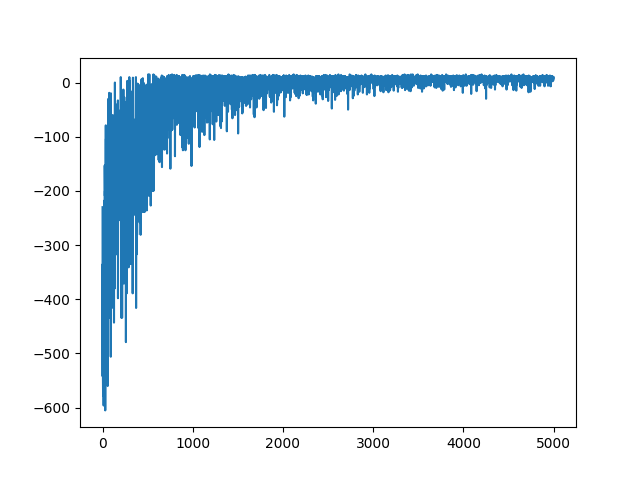
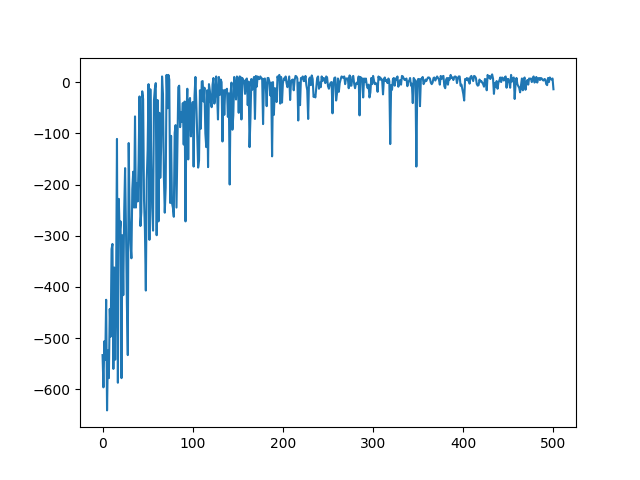
added missing files

diff --git a/train.py b/train.py
@@ -2,13 +2,14 @@ import numpy as np
 import gym
 from matplotlib import pyplot as plt
 
-EPSILON = 0.5
-EPSILON_MIN = 0.01
+EPSILON = 0.1
+EPSILON_MIN = 0.1
 EPSILON_MAX = 1
 DECAY = 0.05
-EPISODES = 5000
-ALPHA = 0.1
-GAMMA = 0.6
+
+EPISODES = 501
+ALPHA = 1.0
+GAMMA = 0.9
 
 
 def train(q_table, env):
@@ -31,9 +32,9 @@ def train(q_table, env):
                 too_long_episodes += 1
                 #print("Episode LENGTH EXCEEDED minimum!")
         global EPSILON
-        EPSILON = (
-            EPSILON_MIN + (EPSILON_MAX - EPSILON_MIN) * np.exp(-DECAY * EPISODES)
-        )
+#        EPSILON = (
+#            EPSILON_MIN + (EPSILON_MAX - EPSILON_MIN) * np.exp(-DECAY * EPISODES)
+#        )
         if i % 100 == 0:      
             print(f"Episode: {i+1}")
             print(f"\tLength: {episode_length}, Penalties: "
@@ -51,7 +52,6 @@ def _step(q_table, env, state):
     
     next_state, reward, done, _, = env.step(action)
     prev_q = q_table[state][action]
-    
     
     next_max_val = np.max(q_table[next_state])
     

diff --git a/main.py b/main.py
@@ -1,0 +1,31 @@
+import gym
+import numpy as np
+from utils import fix_rendering_on_windows
+from train import choose_action
+import pickle
+
+
+LENGTH = 200
+def visualize(q_table, env, length):
+    state = env.reset()
+    total_reward = 0
+    for i in range(length):
+        env.render()
+        
+        action =  np.argmax(q_table[state, :])
+        state, reward, done, _ = env.step(action)
+        total_reward += reward
+        if done:
+            print(f"Done after {i} steps. Total reward:", total_reward)
+            break
+
+
+def main():
+    env = gym.make("Taxi-v3").env
+    fix_rendering_on_windows()
+    q_table = np.load("model.npy", allow_pickle = True)
+    visualize(q_table, env, LENGTH)
+    
+
+if __name__ == "__main__":
+    main()
